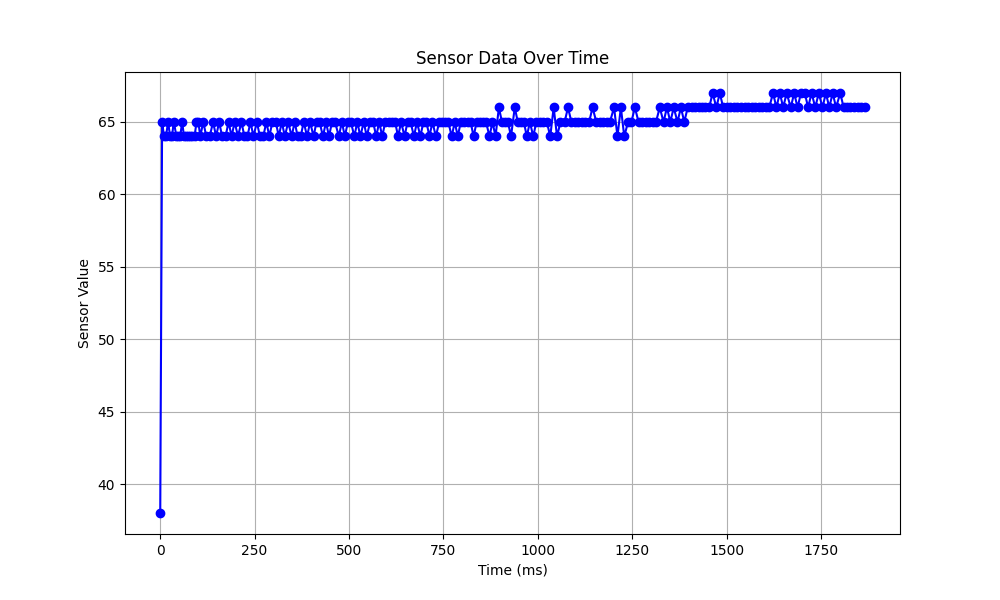
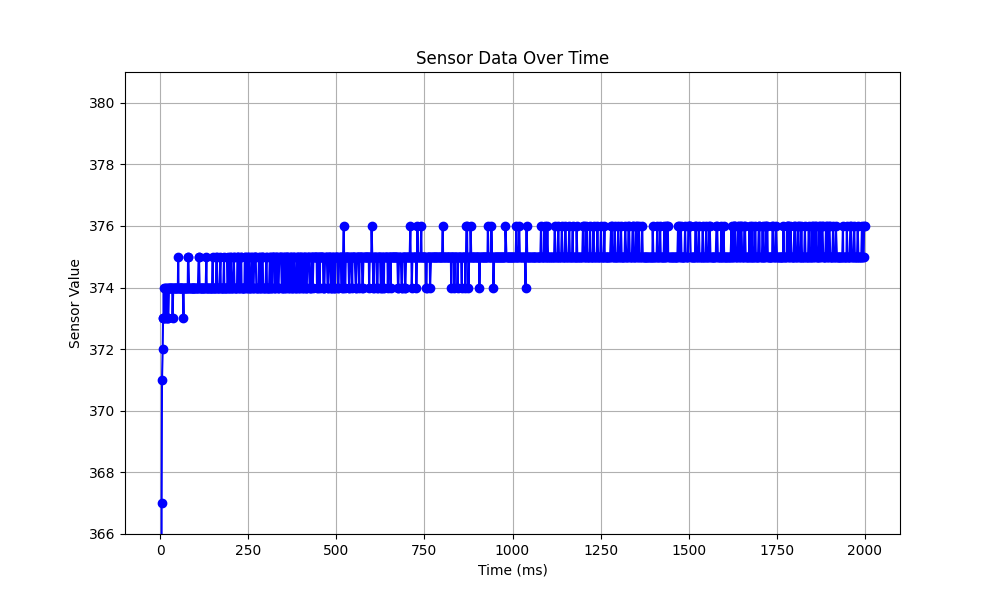
updated arduino code

diff --git a/arduino/irSensorData.py b/arduino/irSensorData.py
@@ -137,7 +137,7 @@ import time
 import matplotlib.pyplot as plt
 
 # Set up the serial connection
-ser = serial.Serial('COM3', 9600)  # Replace 'COM3' with your Arduino's COM port
+ser = serial.Serial('COM4', 57600)  # Replace 'COM3' with your Arduino's COM port
 
 # Create a DataFrame to store the data
 data = []
@@ -167,7 +167,7 @@ try:
                 print(f"Line does not contain a comma: '{line}'")
 
         # Optional: Sleep for a short period to reduce CPU usage
-        time.sleep(0.01)
+        # time.sleep(0.01)
 
 except KeyboardInterrupt:
     # Handle stopping the script with Ctrl+C
@@ -189,6 +189,7 @@ finally:
     plt.title("Sensor Data Over Time")
     plt.xlabel("Time (ms)")
     plt.ylabel("Sensor Value")
+    plt.ylim(max(df["Sensor Value"])-10, max(df["Sensor Value"])+5)  # Set y-axis to start from 300
     plt.grid(True)
     plt.savefig("sensor_data_plot.png")  # Save the plot as a PNG file
     plt.show()  # Display the plot
